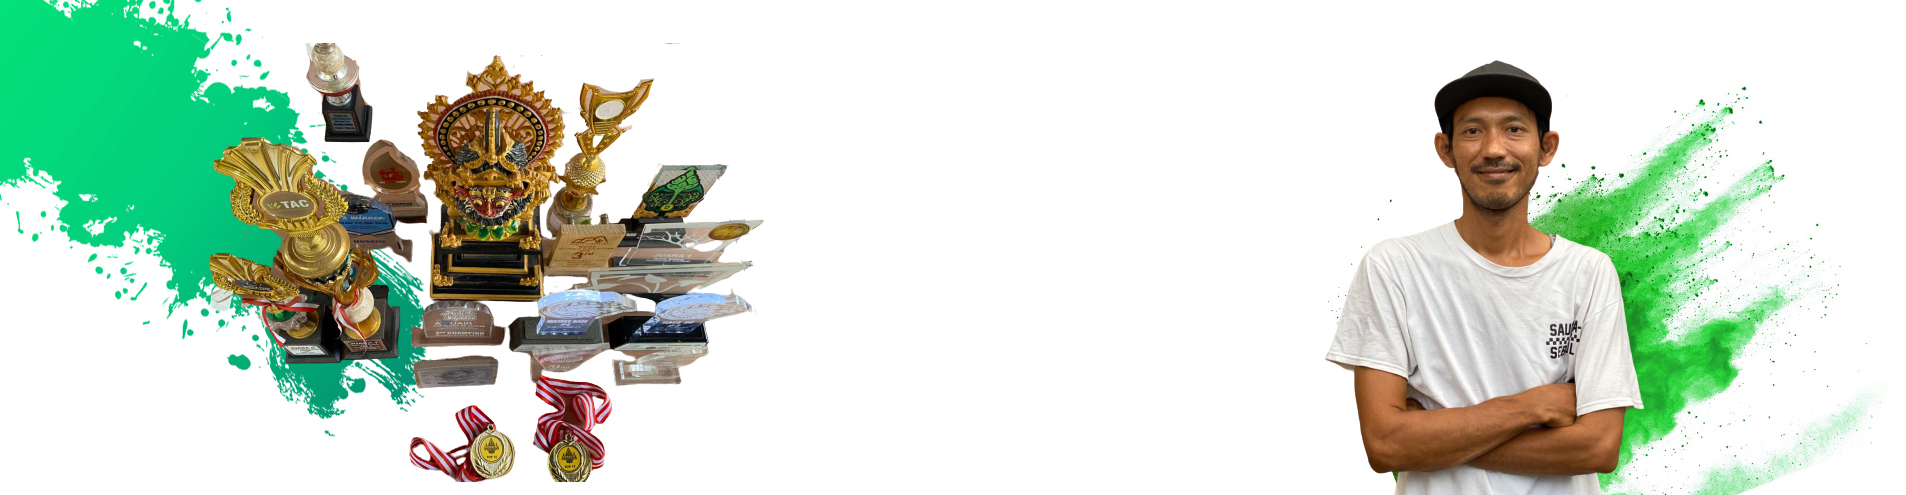
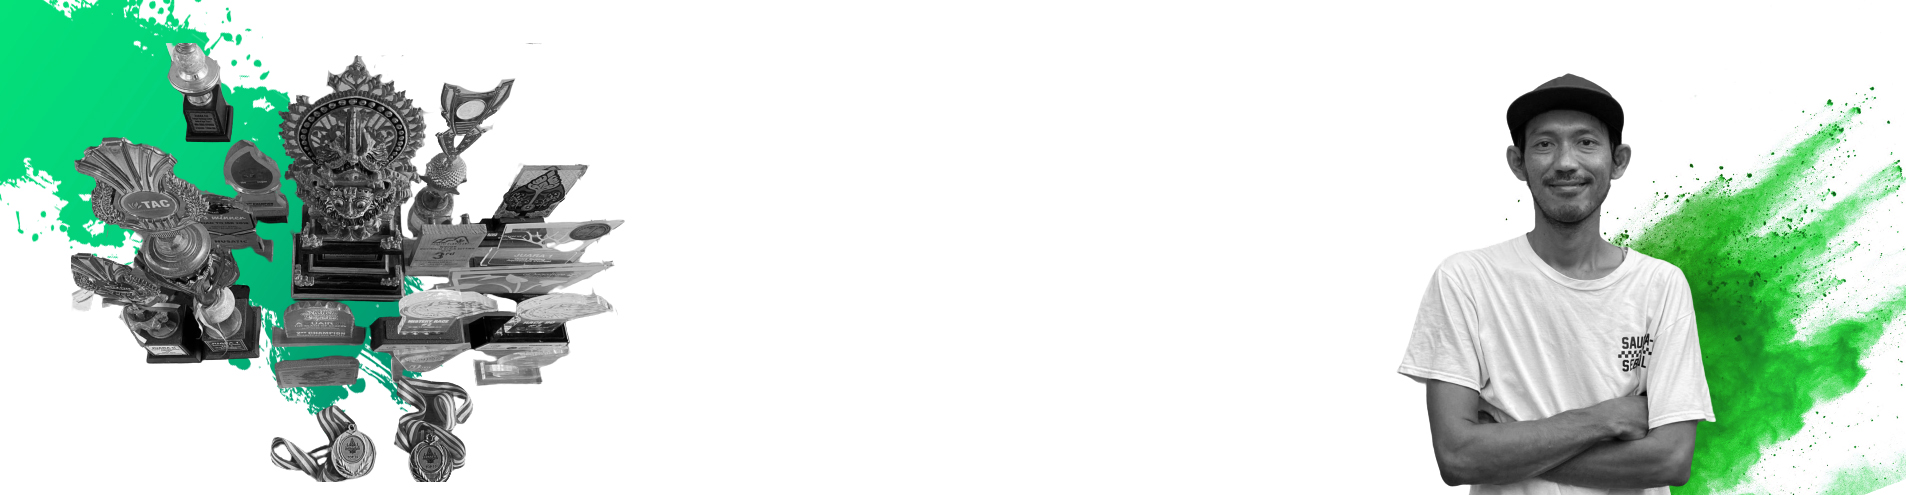
Added margin for mobile view update foudner image

diff --git a/assets/css/style-main.css b/assets/css/style-main.css
@@ -1987,6 +1987,7 @@ h6 .badge {
   .category-container, .section-latest, .section-about, .product-detail-container, .post-container, .section-portfolio {
     padding: 80px 40px!important;}
   .video-portofolio{
+    margin-left: 50px!important;
     margin-top: -10px!important;
     height: 312px!important;
     width: 312px!important;}
@@ -2050,6 +2051,7 @@ h6 .badge {
     width: 100%;
     height: 100vh;}
   .video-portofolio{
+    margin-left: 75px!important;
     margin-top: 50px!important;
     height: 100%!important;
     width: 412px!important; }
@@ -2080,6 +2082,7 @@ h6 .badge {
     width: 150px!important;
   }
   .video-portofolio{
+    margin-left: 75px!important;
   margin-top: 20px!important;
   height: 100%!important;
   width: 632px!important; }
@@ -2148,7 +2151,7 @@ h6 .badge {
         color: #fff; }
 @media(min-width: 1025px) and (max-width: 1872px) {
   .head-text-founder{
-    font-size: 34px!important;
+    font-size: 24px!important;
   }
   .founder-text{
     padding-top: 15px!important;

diff --git a/application/views/pages/home.php b/application/views/pages/home.php
@@ -36,8 +36,8 @@ $this->load->view('dist/_partials/header-main');
         <div class="text-center founder-text">
         <h1 class="display-4 font-RobotoCondensed-Bold head-text-founder">Founder Aquawabisabi</h1>
         <p class="lead font-weight-normal">Dedy Junaedi</p>
-        <p>World International Aquascape Ranking.</p>
-        <a class="btn btn-outline-secondary" href="<?= base_url('portfolio')?>">Portofolio</a>
+        <p>World International Aquascape Ranking & NSHC Nordic Scaper Hardscape Challenge</p>
+        <a class="btn btn-primary" href="<?= base_url('portfolio')?>">Portofolio</a>
       </div>
       <div class="product-device box-shadow d-none d-md-block"></div>
       <div class="product-device product-device-2 box-shadow d-none d-md-block">  </div>
